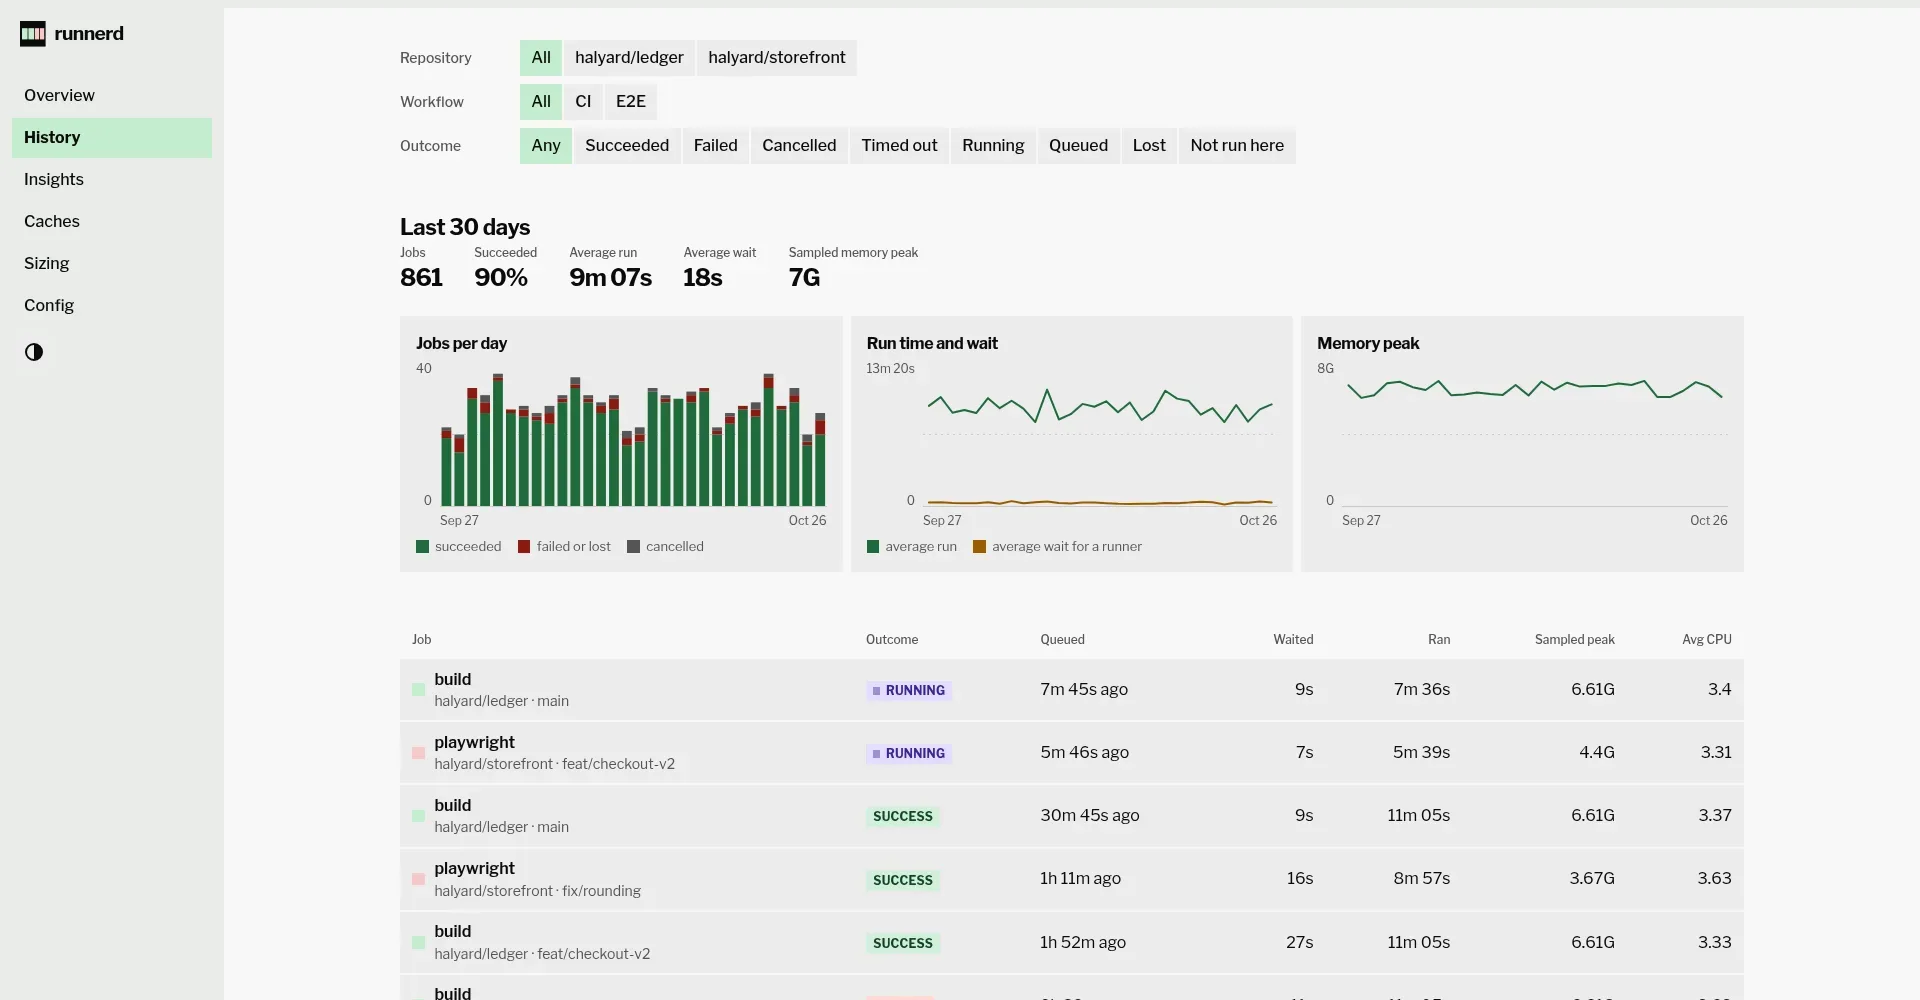
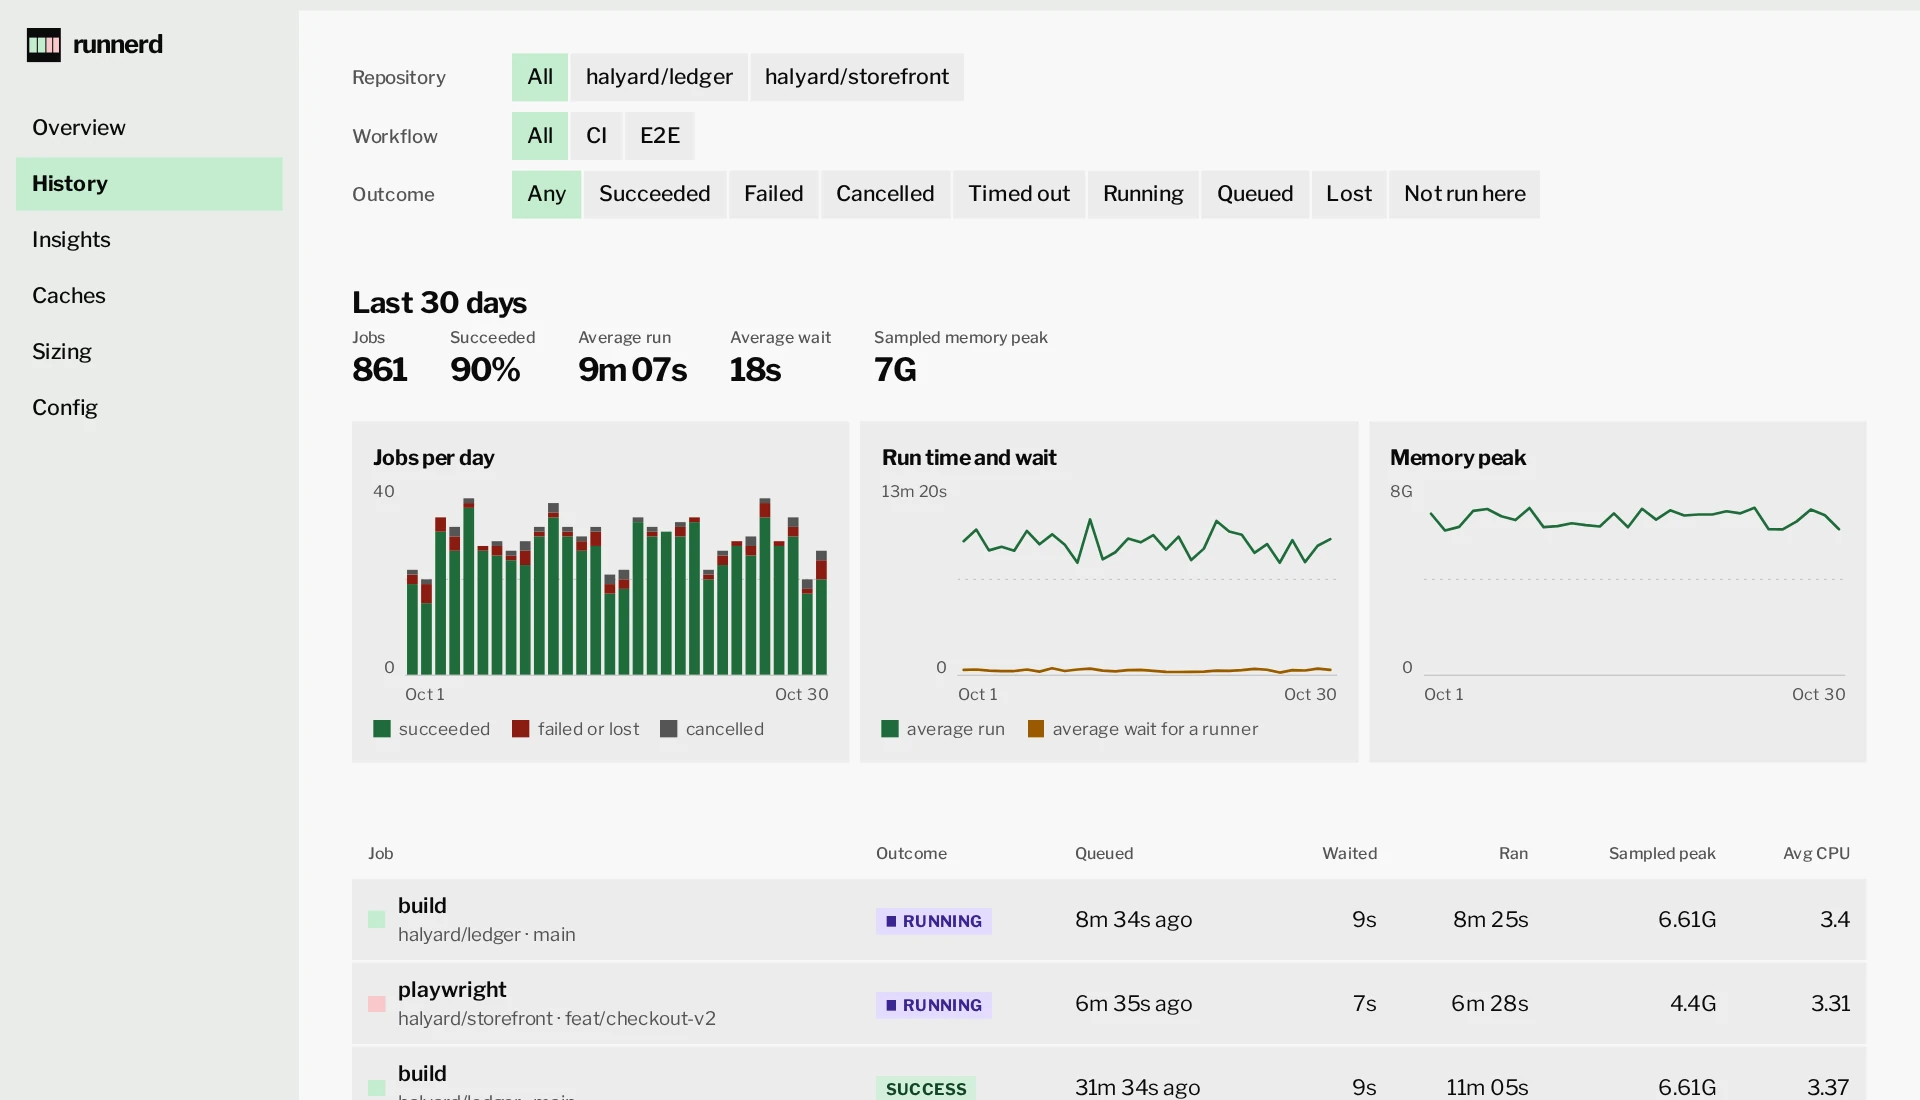
feat: the landing page shows the host's actions cache and today's output (#161)
* feat: the landing page shows the host's actions cache and today's output

The page now has a section for the actions cache served from the host (on by default, how to turn it off, and slot
affinity), says that waits leave out the time runnerd was not running, mentions CPU sharing and the held-back figure,
and says what init does for a first run. The queue and cache output come whole from runnerctl against the demo daemon
(assets/terminal) and the page cuts out the lines it shows; the dashboard shots and TUI frames are recaptured from the
same demo. The output is wider than the proof column, so those sections stack.

* fix: the landing page words the CPU, wait and slot claims as the code does

A job's CPU figure is the share of its busy time, while sizing reads the share of its run over three runs; the waits that leave out downtime are the ones sizing and insights count; slot affinity applies to a job that gets a new runner, when a slot is free. job.txt had no reader and is removed.

* docs: the landing page's caches output and TUI frames come from the build with the CPU hold line

The recaptured runnerctl caches output now names the tools the build cache serves and how to turn the actions cache off, so the page stops repeating them. The TUI job frame shows the CPU hold line.

diff --git a/site/src/styles/landing.css b/site/src/styles/landing.css
@@ -259,6 +259,12 @@ html:not(.js) .theme {
   align-items: start;
 }
 
+/* Output wider than the proof column: the text above it, the output across the page. */
+.split.stacked {
+  grid-template-columns: minmax(0, 1fr);
+  gap: 2rem;
+}
+
 /* Terminals: real output, on the darkest surface in both themes. */
 .terminal {
   margin: 0;
